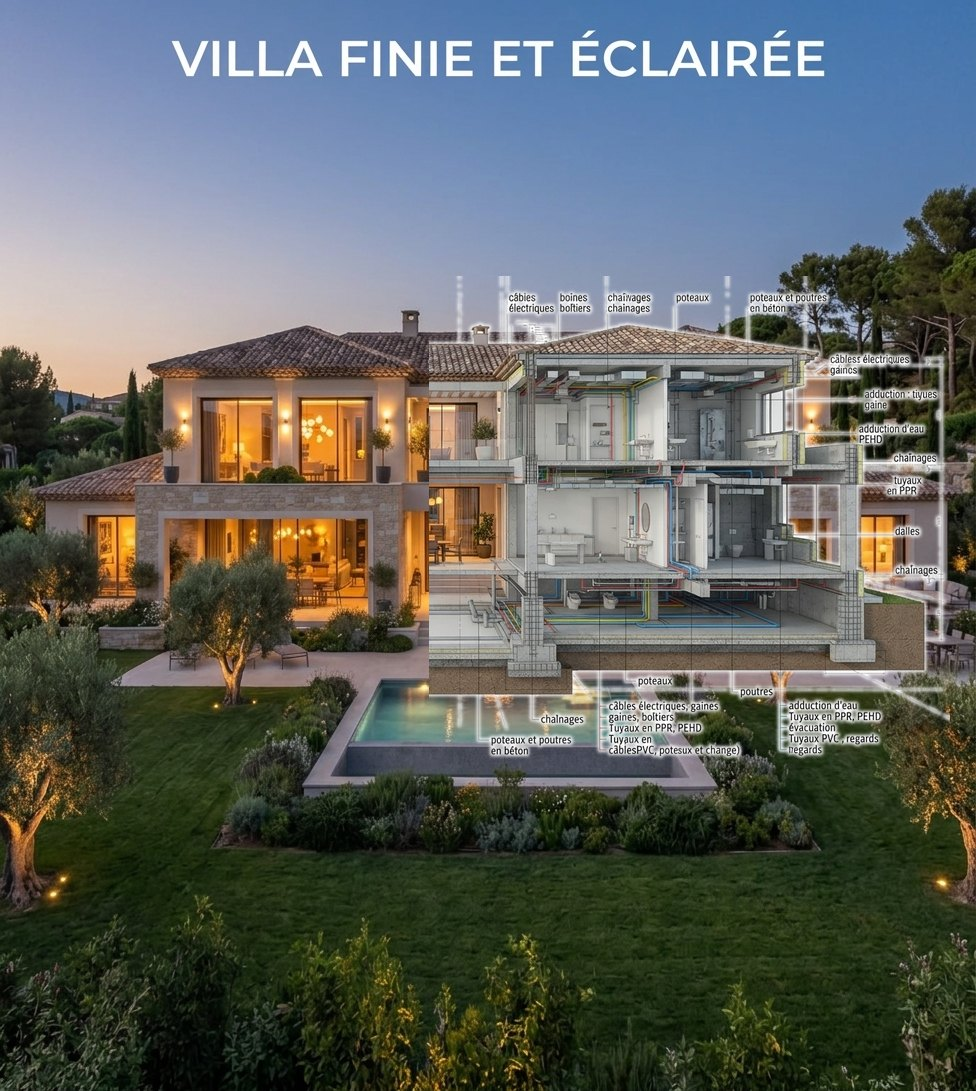
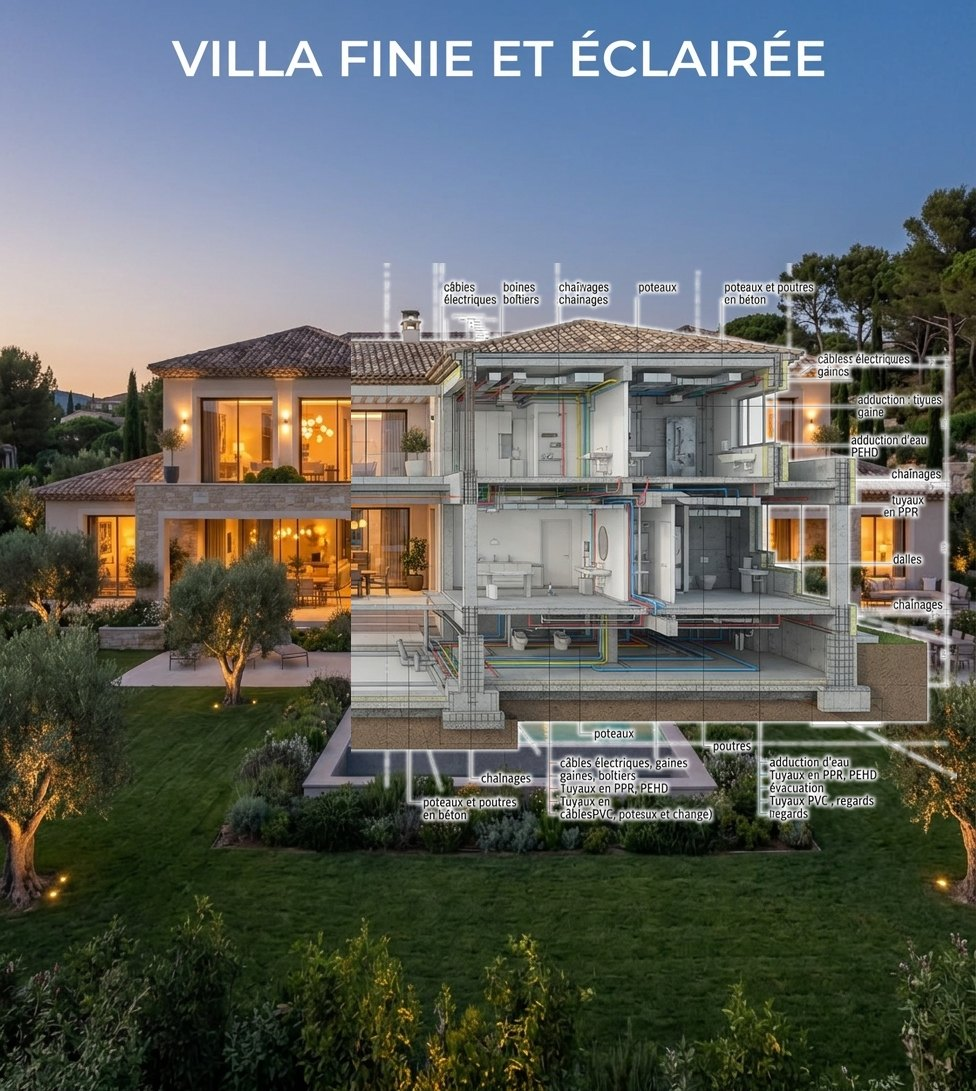
Scan : coupe technique recalée sur la villa (cheminée, toit, dalles, sol)
Claude-Session: https://claude.ai/code/session_011S7HZCFc974NFszfB34mtR

Changed region(s): [[0.3381, 0.2181, 0.9836, 0.7791]]

diff --git a/assets/css/sigma.css b/assets/css/sigma.css
@@ -424,8 +424,8 @@ input:focus, select:focus, textarea:focus { border-color: var(--calque-texte); o
 .scan-ligne { position: absolute; top: 0; bottom: 0; left: 0; width: 3px; margin-left: -1.5px; background: var(--calque); box-shadow: 0 0 14px 3px color-mix(in srgb, var(--calque) 70%, transparent), 0 0 40px 8px color-mix(in srgb, var(--calque) 30%, transparent); pointer-events: none; animation: scan-ligne 5s linear infinite alternate; }
 .scan-ligne::before, .scan-ligne::after { content: ""; position: absolute; left: -7px; width: 17px; height: 17px; border: 3px solid var(--calque); border-radius: 50%; background: var(--nuit); }
 .scan-ligne::before { top: 10px; } .scan-ligne::after { bottom: 10px; }
-@keyframes scan-bande { 0% { clip-path: inset(0 56% 0 44%); } 40% { clip-path: inset(0 34% 0 44%); } 100% { clip-path: inset(0 0 0 78%); } }
-@keyframes scan-ligne { 0% { left: 44%; } 40% { left: 66%; } 100% { left: 100%; } }
+@keyframes scan-bande { 0% { clip-path: inset(0 50% 0 50%); } 40% { clip-path: inset(0 30% 0 50%); } 100% { clip-path: inset(0 0 0 80%); } }
+@keyframes scan-ligne { 0% { left: 50%; } 40% { left: 70%; } 100% { left: 100%; } }
 .coupe figcaption { display: grid; grid-template-columns: 1fr 1fr; background: var(--nuit); color: #fff; }
 .coupe figcaption span { padding: 12px 18px; display: grid; font-size: .92rem; color: #c9c9c9; }
 .coupe figcaption span + span { border-left: 4px solid var(--calque); }
